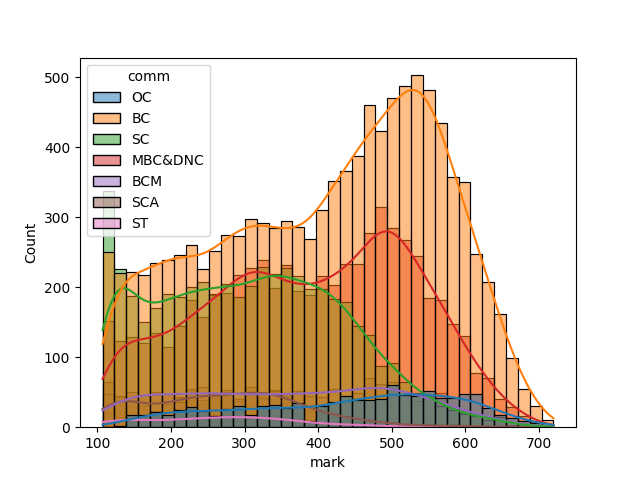
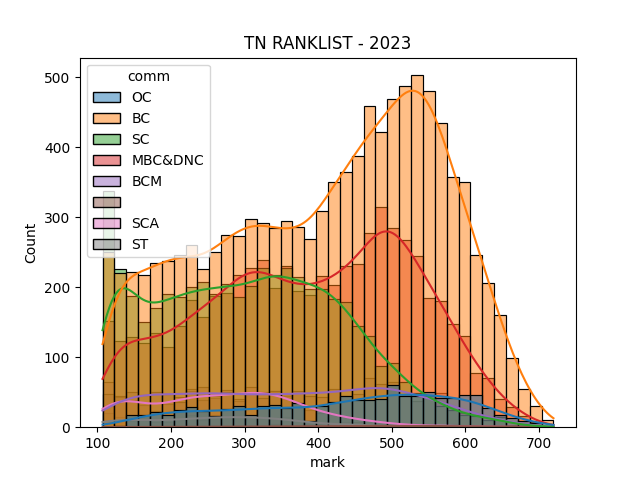
UPDATE

diff --git a/main.py b/main.py
@@ -1,11 +1,10 @@
-
-# importing packages
 import seaborn as sns
 import matplotlib.pyplot as plt
 import pandas as pd
 from rl import rl
 
-# reading the database
+yrs = ["2021", "2022", "2023"]
+
 
 def show_rl_plot(yr):
     data = pd.read_json(f"data/TNMC-PR-LIST/{yr}/TNMC-PR-LIST-{yr}.json")
@@ -13,13 +12,15 @@ def show_rl_plot(yr):
     plt.title(f"TN RANKLIST - {yr}")
     plt.show()
 
-    
+
 def gen_data(yr):
-    rl(map=f"assets/docs/rl-maps/TNMC-PR-LIST-{yr}.map.json" , rlist=f"assets/docs/TNMC-PR-LIST-{yr}.pdf", file_name=f"data/TNMC-PR-LIST/{yr}/TNMC-PR-LIST-{yr}.json")
-    
+    rl(map=f"assets/docs/rl-maps/TNMC-PR-LIST-{yr}.map.json",
+       rlist=f"assets/docs/TNMC-PR-LIST-{yr}.pdf",
+       file_name=f"data/TNMC-PR-LIST/{yr}/TNMC-PR-LIST-{yr}.json")
+
+
 def gen_show_rl_plot(yr):
     gen_data(yr)
     show_rl_plot(yr)
-
-yr = "2023"
-gen_show_rl_plot(yr)
+    
+show_rl_plot(yrs[2])
